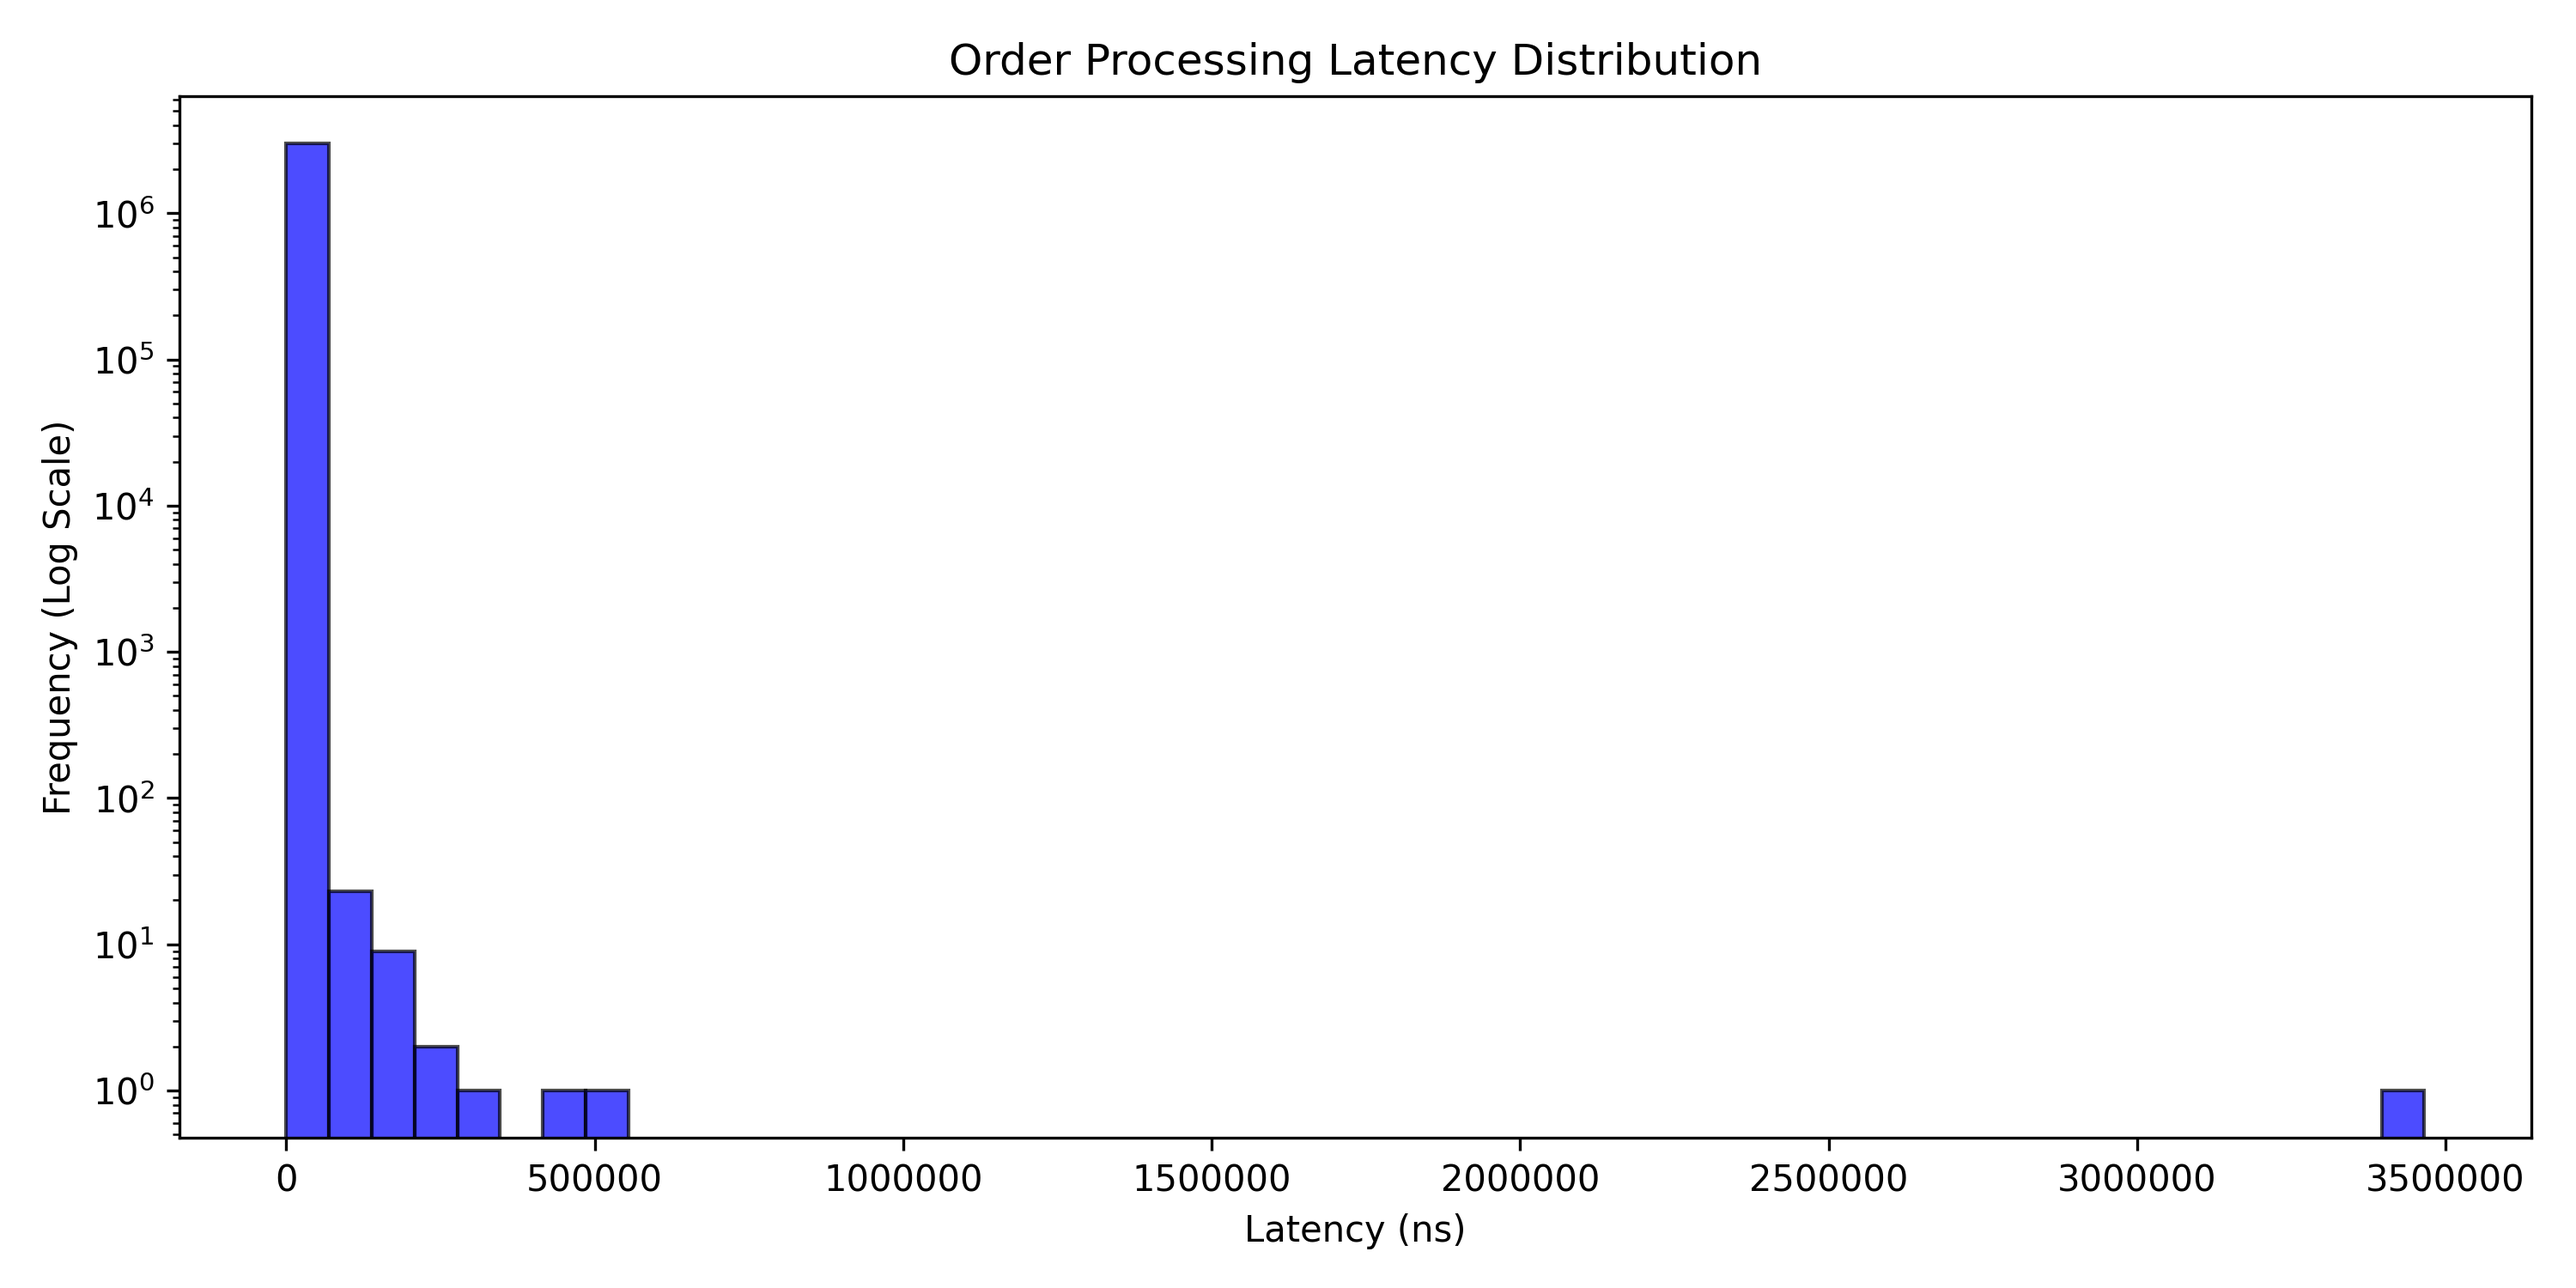
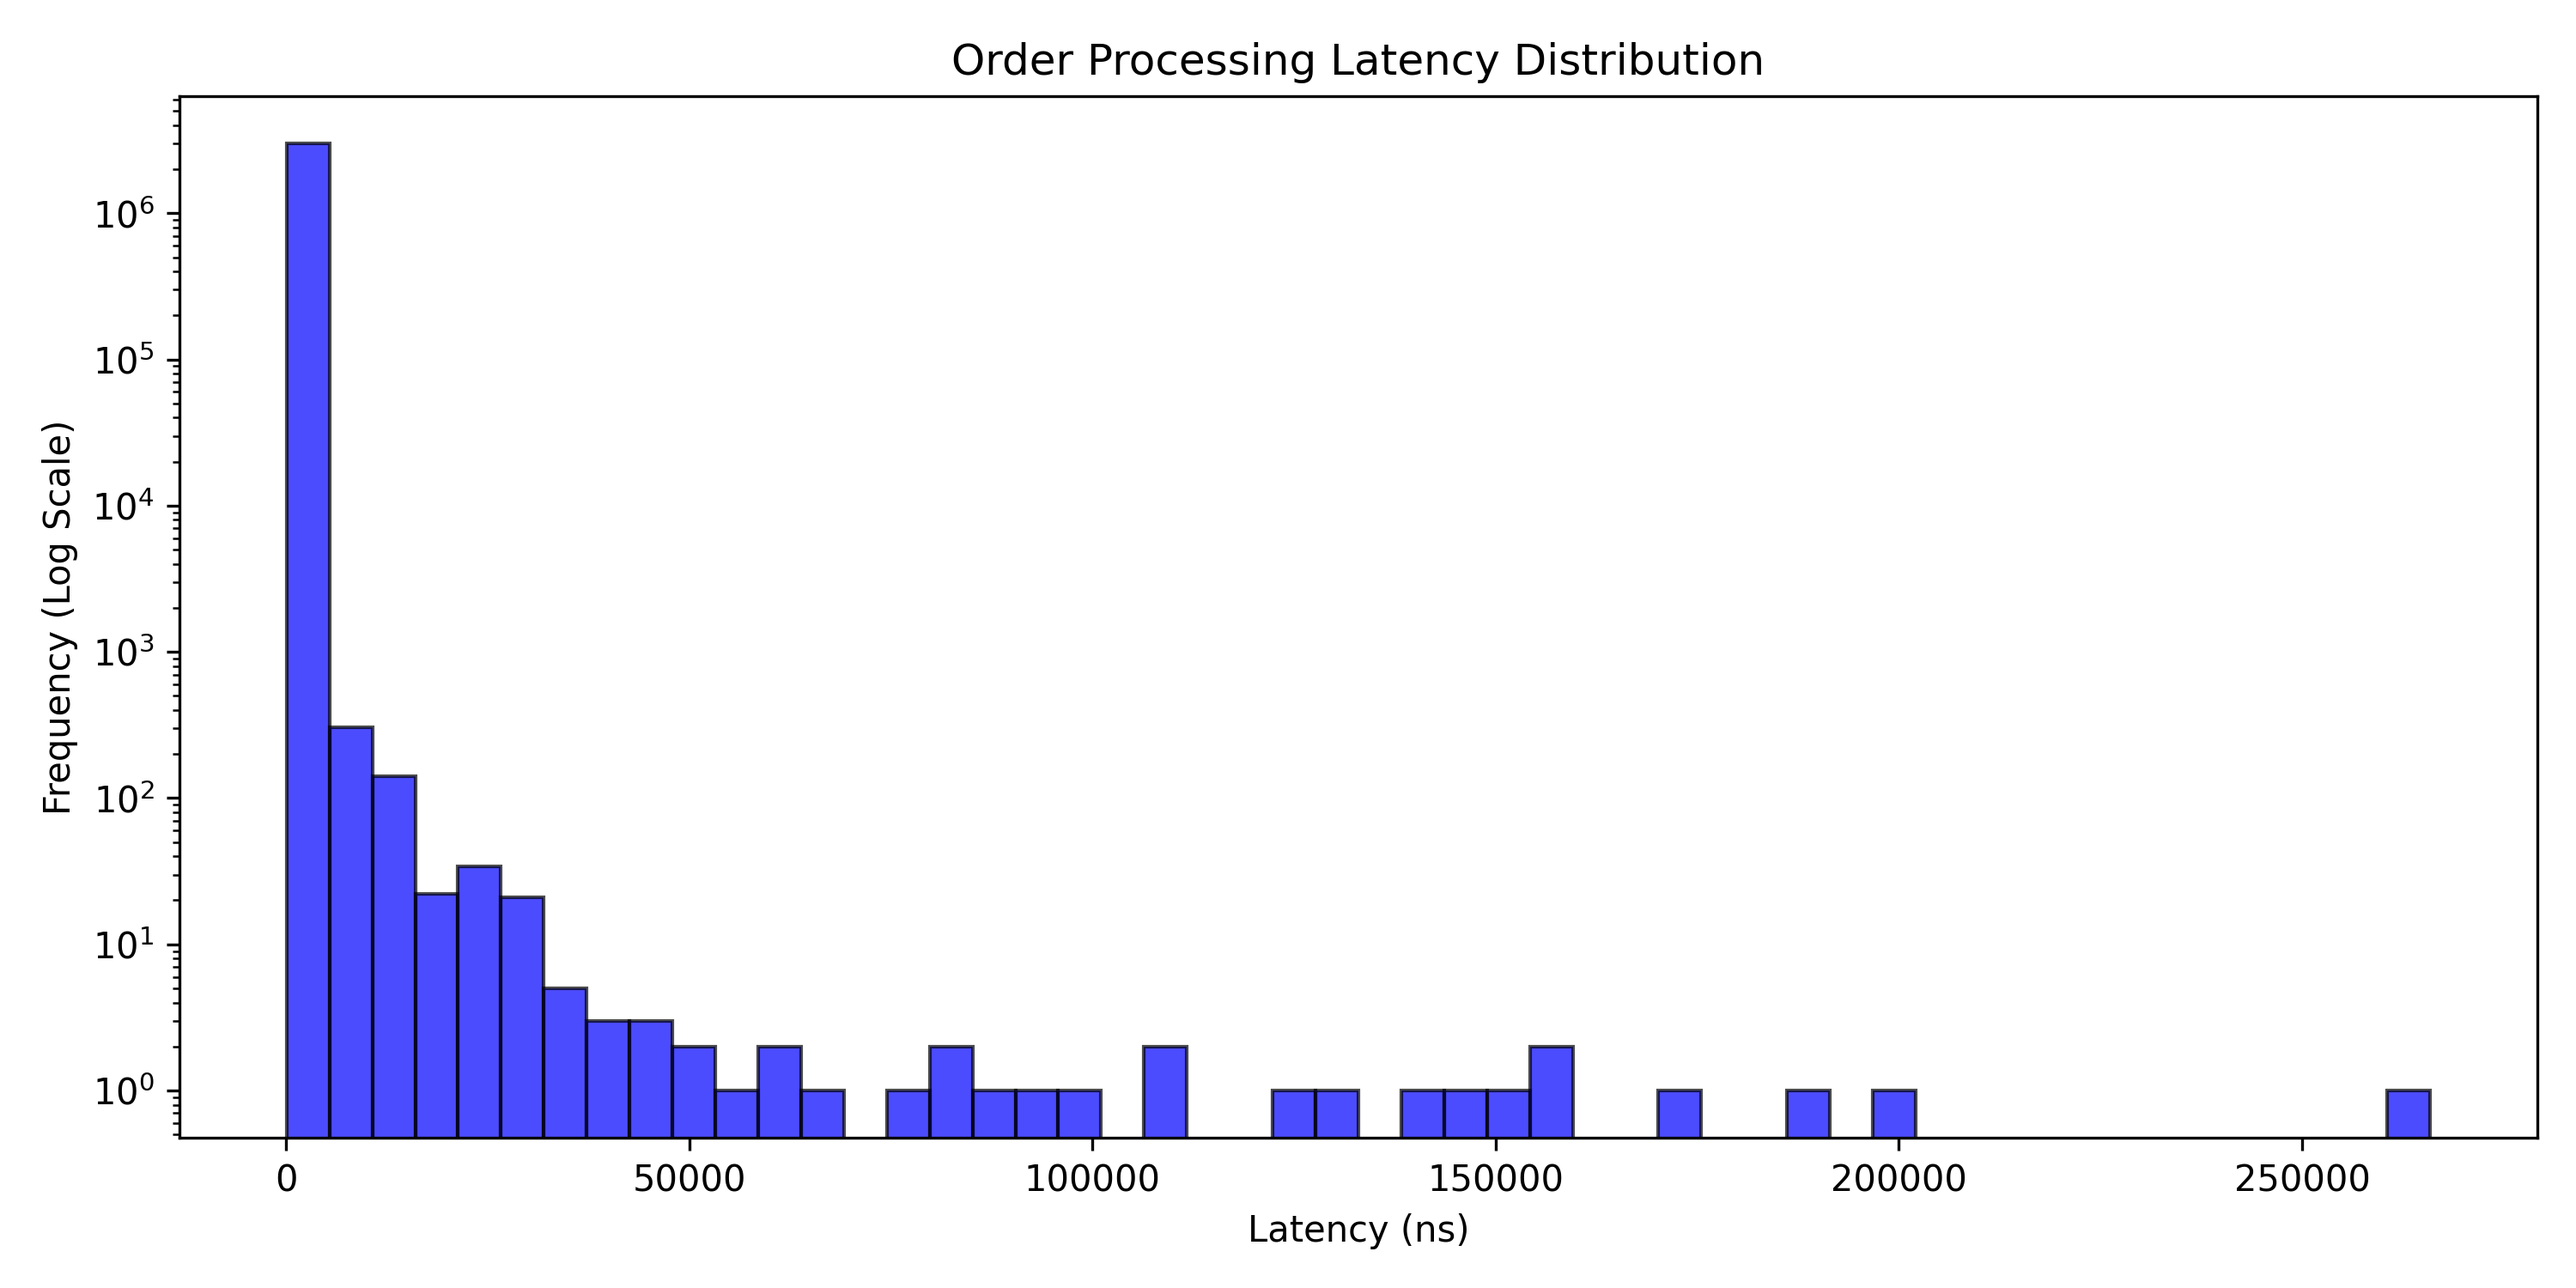
Update README and benchmark configuration

diff --git a/benchmarks/bench_matching_engine.cpp b/benchmarks/bench_matching_engine.cpp
@@ -15,7 +15,7 @@ using namespace std;
 #include "matching_engine/OrderBook.hpp"
 
 const int kNumOrders =
-    10'000'000;  // Total number of orders to generate and process
+    100'000'000;  // Total number of orders to generate and process
 
 const int kMinPrice = 800'00;     // Min price in cents
 const int kMaxPrice = 1200'00;    // Max price in cents

diff --git a/README.md b/README.md
@@ -10,6 +10,8 @@ Concise performance metrics...
 
 Image? Latency histogram? Implementation visualization from blog post?
 
+Focus on matching logic and data structures, not on network, serialization, etc. This effects the benchmark results, but the goal is to measure the performance of the matching engine itself, not the entire system. In real-world applications, network latency and serialization overhead can be significant, but they are outside the scope of this project.
+
 Link to project report
 
 ## Features
@@ -27,12 +29,23 @@ Removes order from limit order book.
 _Note: the modify-order operation has been left out for simplicity. Modifying an order can simply be treated as a cancel + place order. You would lose your place in the time-priority queue this way, but that is what happens in real exchanges most of time anyway._
 
 ## Performance
+Our benchmark generates 100M synthetic orders, using the first 50M to populate the order book and the remaining 50M to measure performance. The benchmark runs with forced cold cache for each new order to provide realistic performance characteristics (using  `_mm_clflush`).
 
-Mention forced cold cache
+| Metric | Value |
+| :--- | ---: |
+| Average Latency | 164 ns |
+| P50 Latency | 144 ns |
+| P99 Latency | 401 ns |
+| Min Latency | 28 ns |
+| Max Latency* | 557,398 ns |
+| Throughput | 5.12M orders/sec |
 
-Mention this only measures the latency of the matching engine, not including network latency, serialization/deserialization, etc. This is purely the time it takes for the matching engine to process an order and update the order book.
+_*Such high max latency might be caused by hardware interrupts, context switches, or other background processes on the machine. Or simply by rare cache misses or other implementation details. Further investigation is needed to pinpoint the exact cause._
 
-(Some benchmark details and performance stats to quickly showcase to recruiters)
+![Order Processing Latency Distribution](./scripts/latencies_hist.png)
+_Order processing latency distribution (log scale)_
+
+**Important:** These metrics measure only the matching engine's latency. In real-world systems, network latency, serialization/deserialization, and other system overhead add significant delay. These results capture purely the time to process an order and update the order book.
 
 ### Benchmark Data
 The benchmark uses synthetic order data created with 5 different distributions, simulating a realistic market. Prices are rounded to 2 decimal places, which causes limit orders to group at discrete price levels, resulting in realistic order book depth. The grey line represents the generated base price, which acts as a reference for limit orders placed at different distances around it. Market and cancel orders are also generated and included in the dataset.
@@ -40,7 +53,7 @@ The benchmark uses synthetic order data created with 5 different distributions, 
 ![Price movement generated by the syntethic order generator](./scripts/price_movement.png)
 _Small snippet of price movement and limit orders generated by the syntethic order generator_
 
-**Note:** While this synthetic order generator doesn't capture all nuances of real-world markets, it still provides a realistic approximation for benchmarking purposes.
+**Note:** This synthetic order generator provides a realistic approximation, although it doesn't capture all nuances of real-world markets.
 
 _Read more about the benchmark in the PDF below_
 
